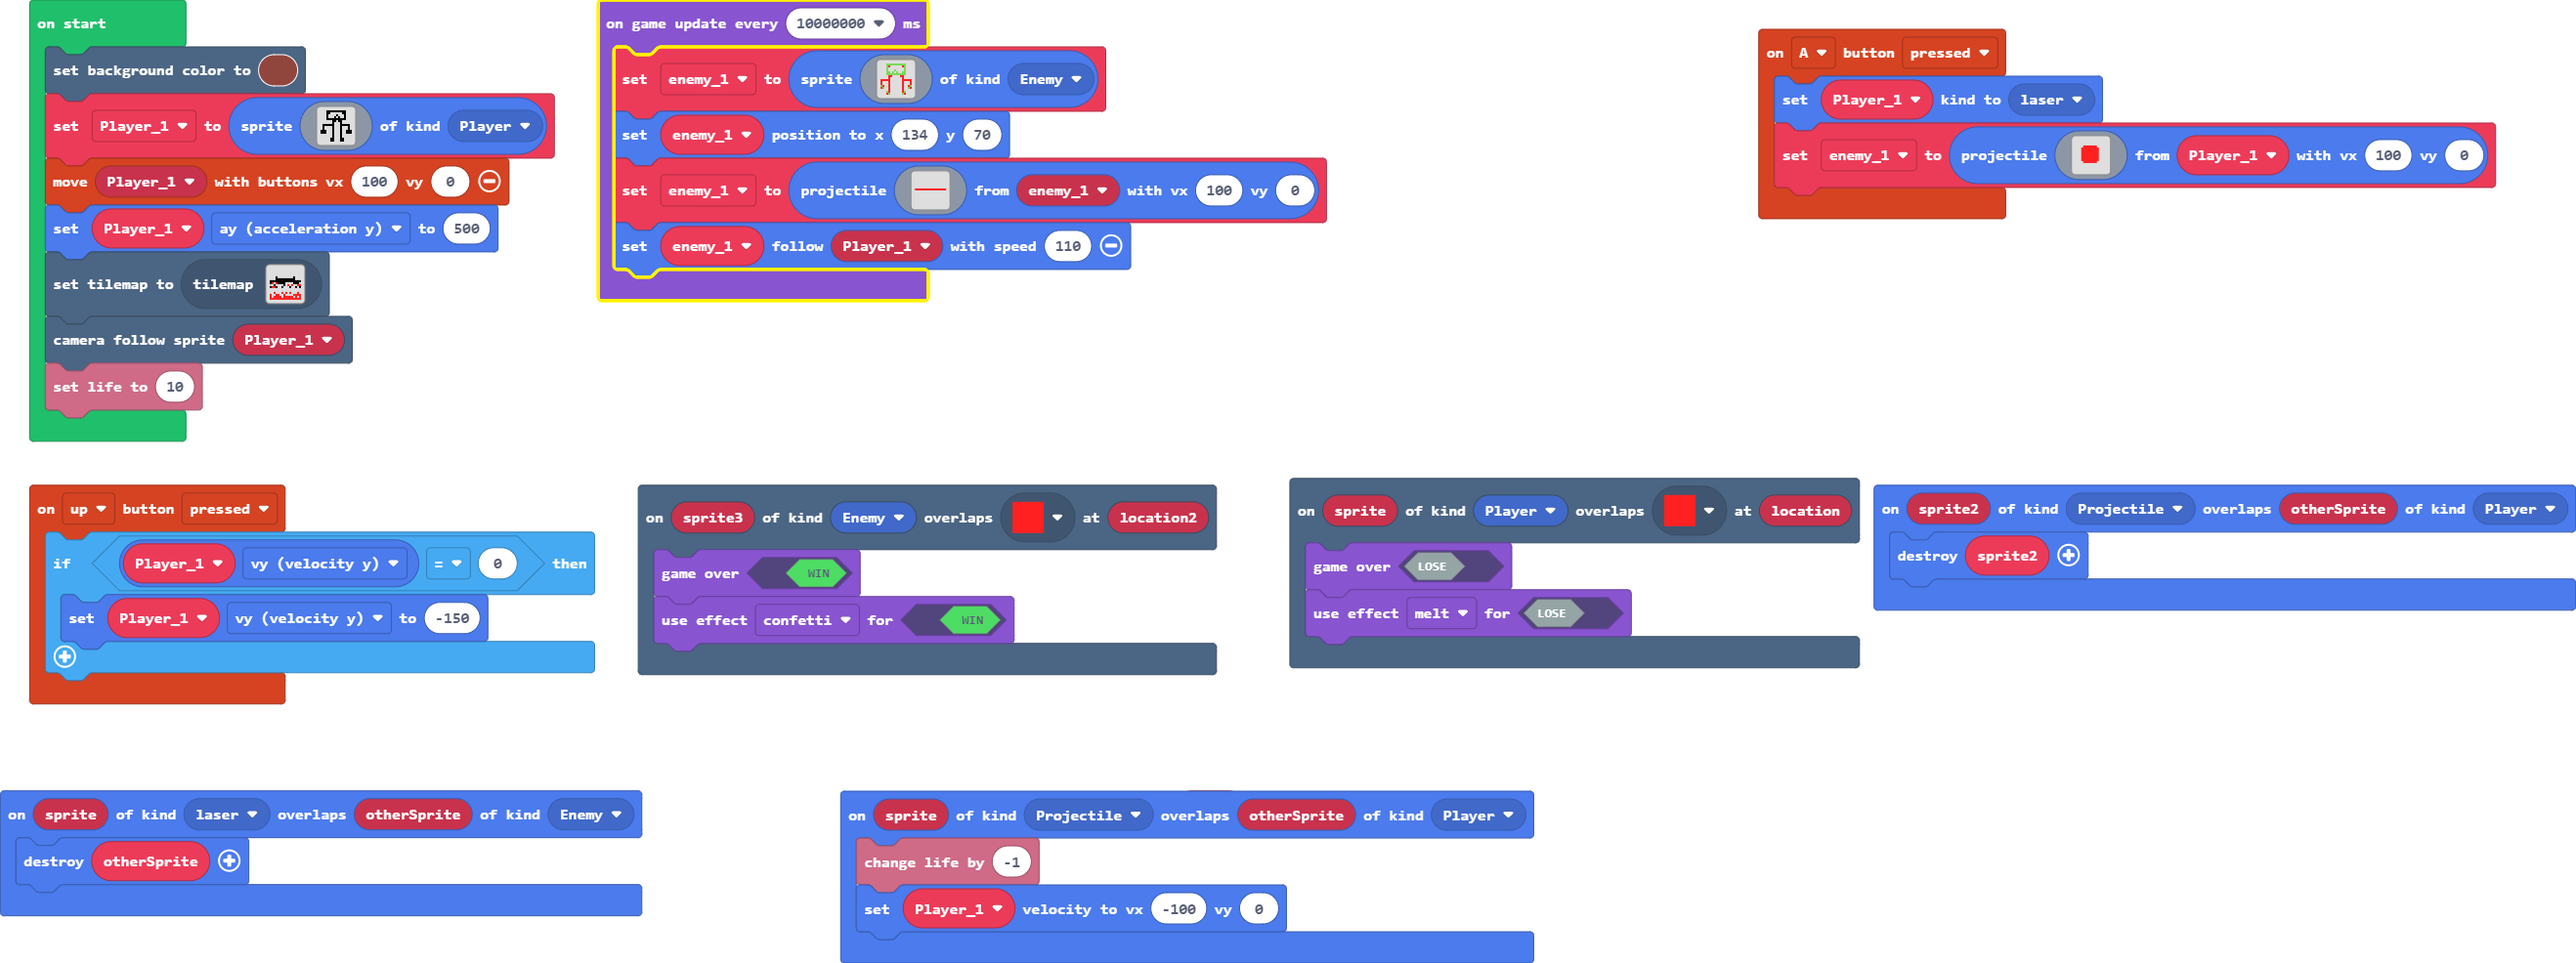
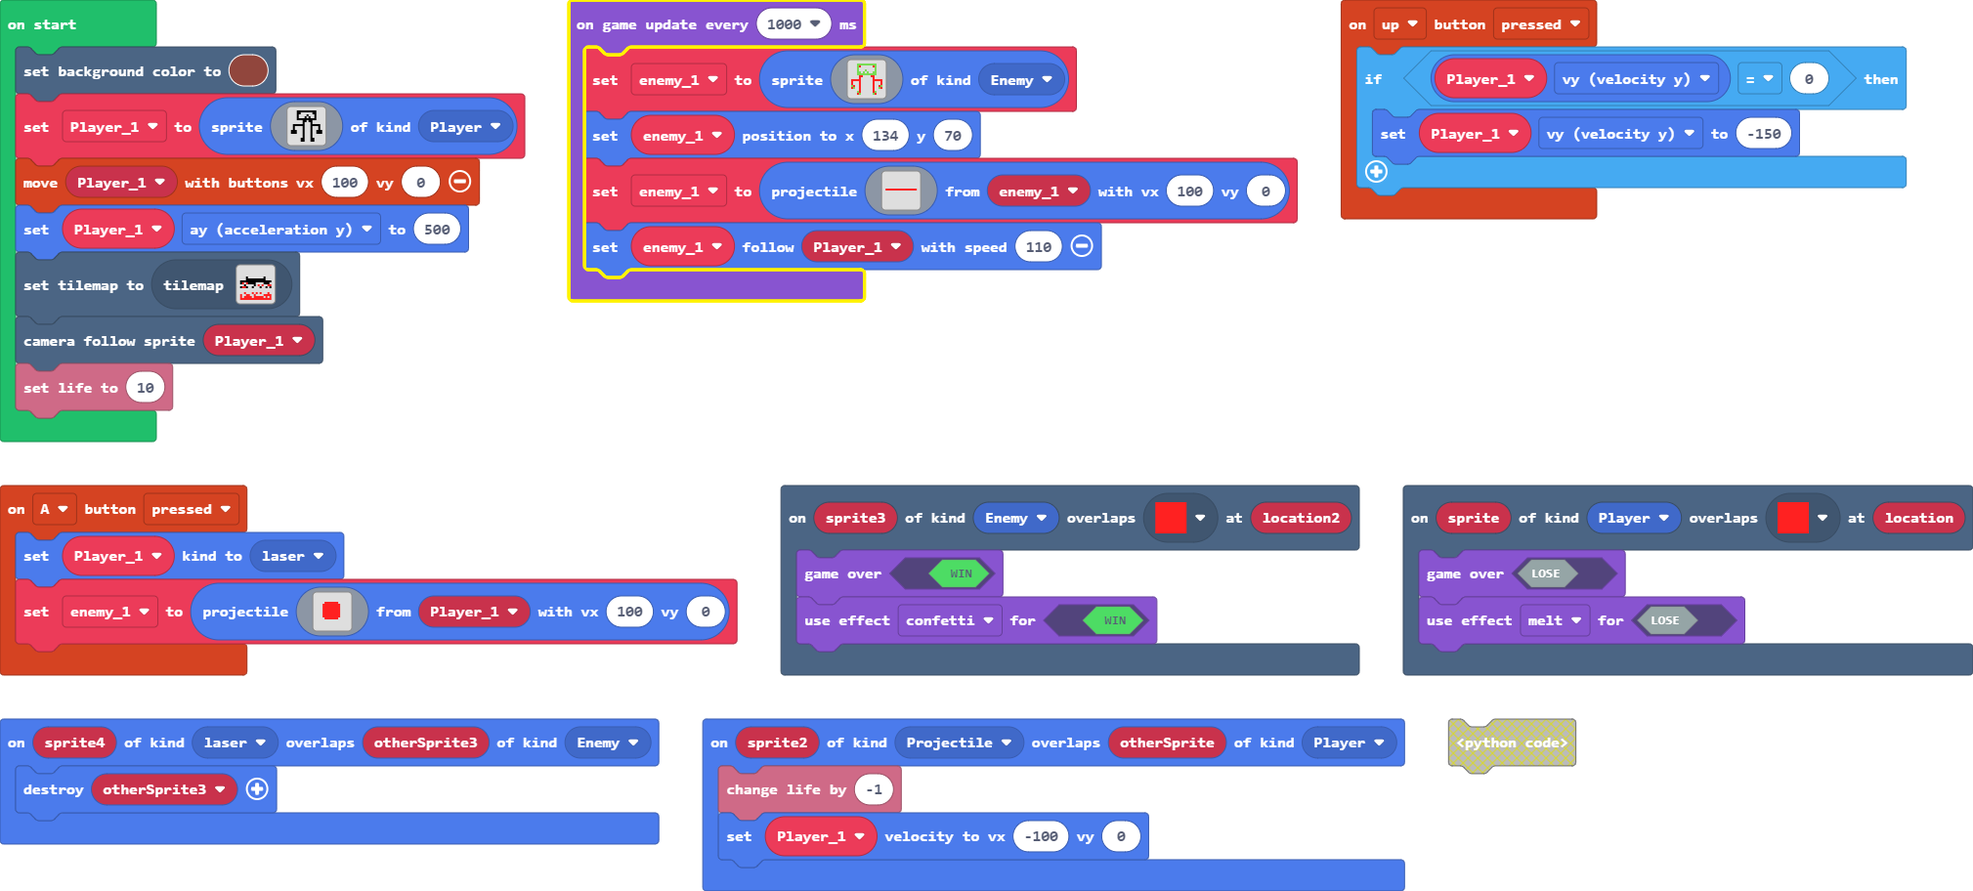
Update main.blocks, main.ts, main.py

diff --git a/main.ts b/main.ts
@@ -35,15 +35,12 @@ controller.A.onEvent(ControllerButtonEvent.Pressed, function () {
         . . . . . . . . . . . . . . . . 
         `, Player_1, 100, 0)
 })
-sprites.onOverlap(SpriteKind.Projectile, SpriteKind.Player, function (sprite, otherSprite) {
+sprites.onOverlap(SpriteKind.Projectile, SpriteKind.Player, function (sprite2, otherSprite) {
     info.changeLifeBy(-1)
     Player_1.setVelocity(-100, 0)
 })
-sprites.onOverlap(SpriteKind.Projectile, SpriteKind.Player, function (sprite2, otherSprite) {
-    sprites.destroy(sprite2)
-})
-sprites.onOverlap(SpriteKind.laser, SpriteKind.Enemy, function (sprite, otherSprite) {
-    sprites.destroy(otherSprite)
+sprites.onOverlap(SpriteKind.laser, SpriteKind.Enemy, function (sprite4, otherSprite3) {
+    sprites.destroy(otherSprite3)
 })
 let enemy_1: Sprite = null
 let Player_1: Sprite = null
@@ -71,7 +68,7 @@ Player_1.ay = 500
 tiles.setCurrentTilemap(tilemap`level1`)
 scene.cameraFollowSprite(Player_1)
 info.setLife(10)
-game.onUpdateInterval(10000000, function () {
+game.onUpdateInterval(1000, function () {
     enemy_1 = sprites.create(img`
         . . . 7 7 7 7 7 7 7 7 7 7 . . . 
         . . . 7 2 . . . . . . 2 7 . . . 

diff --git a/main.py b/main.py
@@ -1,34 +1,68 @@
+@namespace
+class SpriteKind:
+    laser = SpriteKind.create()
+
 def on_up_pressed():
     if Player_1.vy == 0:
         Player_1.vy = -150
 controller.up.on_event(ControllerButtonEvent.PRESSED, on_up_pressed)
 
-def on_overlap_tile(sprite, location):
-    game.game_over(False)
-    game.set_game_over_effect(False, effects.melt)
-scene.on_overlap_tile(SpriteKind.player,
-    assets.tile("""
-        myTile
-    """),
-    on_overlap_tile)
-
-def on_a_pressed():
-    Player_1.vx = 50
-controller.A.on_event(ControllerButtonEvent.PRESSED, on_a_pressed)
-
-def on_on_overlap(sprite2, otherSprite):
-    sprites.destroy(sprite2)
-    info.change_life_by(-1)
-sprites.on_overlap(SpriteKind.projectile, SpriteKind.player, on_on_overlap)
-
-def on_overlap_tile2(sprite3, location2):
+def on_overlap_tile(sprite3, location2):
     game.game_over(True)
     game.set_game_over_effect(True, effects.confetti)
 scene.on_overlap_tile(SpriteKind.enemy,
     assets.tile("""
         myTile
     """),
+    on_overlap_tile)
+
+def on_overlap_tile2(sprite, location):
+    game.game_over(False)
+    game.set_game_over_effect(False, effects.melt)
+scene.on_overlap_tile(SpriteKind.player,
+    assets.tile("""
+        myTile
+    """),
     on_overlap_tile2)
+
+def on_a_pressed():
+    global enemy_1
+    Player_1.set_kind(SpriteKind.laser)
+    enemy_1 = sprites.create_projectile_from_sprite(img("""
+            . . . . . . . . . . . . . . . . 
+                    . . . . . . . . . . . . . . . . 
+                    . . . . . . . . . . . . . . . . 
+                    . . . . 2 2 2 2 2 2 2 . . . . . 
+                    . . . 2 2 2 2 2 2 2 2 2 . . . . 
+                    . . . 2 2 2 2 2 2 2 2 2 . . . . 
+                    . . . 2 2 2 2 2 2 2 2 2 . . . . 
+                    . . . 2 2 2 2 2 2 2 2 2 . . . . 
+                    . . . 2 2 2 2 2 2 2 2 2 . . . . 
+                    . . . 2 2 2 2 2 2 2 2 2 . . . . 
+                    . . . 2 2 2 2 2 2 2 2 2 . . . . 
+                    . . . . 2 2 2 2 2 2 2 . . . . . 
+                    . . . . . . . . . . . . . . . . 
+                    . . . . . . . . . . . . . . . . 
+                    . . . . . . . . . . . . . . . . 
+                    . . . . . . . . . . . . . . . .
+        """),
+        Player_1,
+        100,
+        0)
+controller.A.on_event(ControllerButtonEvent.PRESSED, on_a_pressed)
+
+def on_on_overlap(sprite2, otherSprite):
+    info.change_life_by(-1)
+    Player_1.set_velocity(-100, 0)
+sprites.on_overlap(SpriteKind.projectile, SpriteKind.player, on_on_overlap)
+
+def on_on_overlap2(sprite22, otherSprite2):
+    sprites.destroy(sprite22)
+sprites.on_overlap(SpriteKind.projectile, SpriteKind.player, on_on_overlap2)
+
+def on_on_overlap3(sprite4, otherSprite3):
+    sprites.destroy(otherSprite3)
+sprites.on_overlap(SpriteKind.laser, SpriteKind.enemy, on_on_overlap3)
 
 enemy_1: Sprite = None
 Player_1: Sprite = None
@@ -58,10 +92,7 @@ tiles.set_current_tilemap(tilemap("""
     level1
 """))
 scene.camera_follow_sprite(Player_1)
-
-def on_on_update():
-    info.set_life(10)
-game.on_update(on_on_update)
+info.set_life(10)
 
 def on_update_interval():
     global enemy_1
@@ -107,4 +138,4 @@ def on_update_interval():
         100,
         0)
     enemy_1.follow(Player_1, 110)
-game.on_update_interval(600, on_update_interval)
+game.on_update_interval(10000, on_update_interval)
